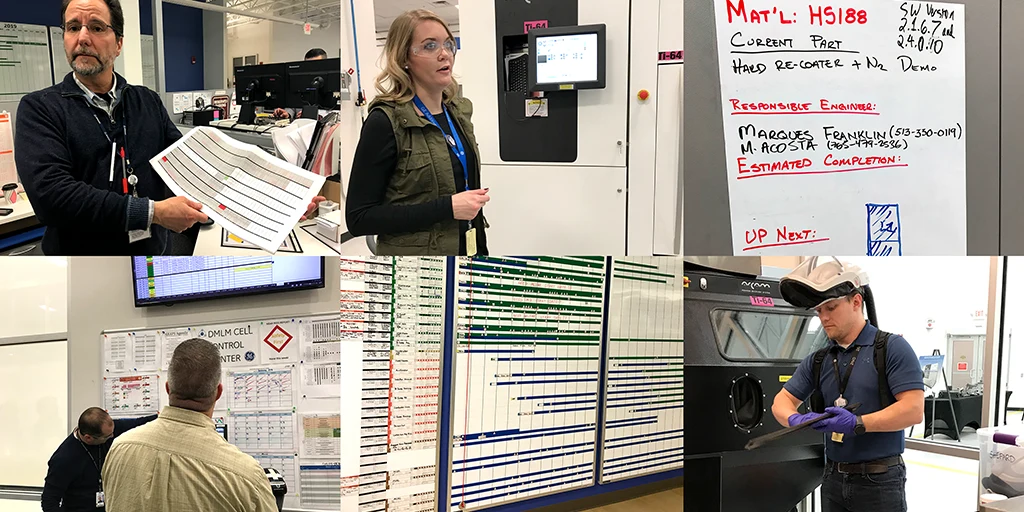
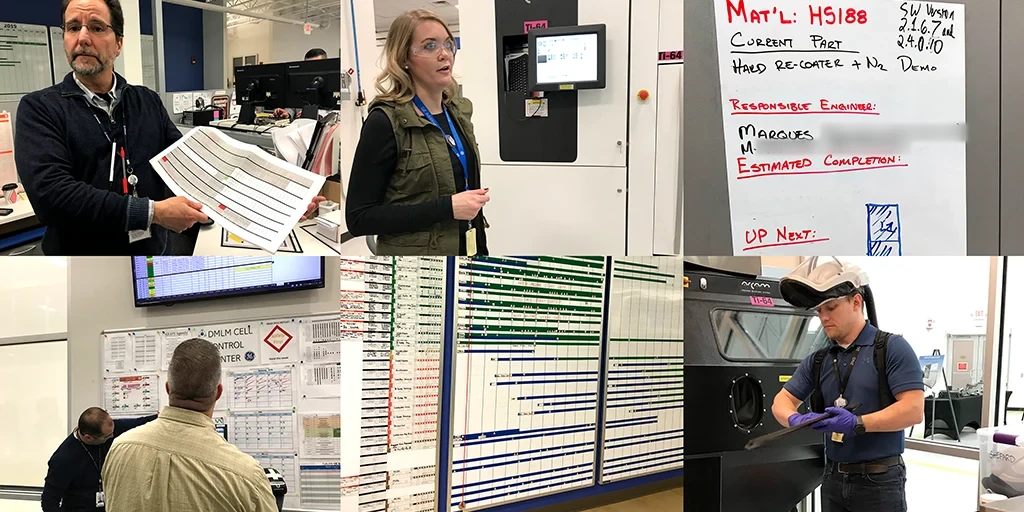
Blur surnames and phone numbers in Additive site-visit photo (#56)
The whiteboard panel of the Additive Manufacturing site-visit image
showed two engineers' surnames and phone numbers, legible at native
size. Blur only those two lines' surname + phone; the rest of the board
stays legible. Same dimensions, opaque RGB, no data changes.

Changed region(s): [[0.7188, 0.2188, 0.9688, 0.3125]]

diff --git a/planning/backlog.md b/planning/backlog.md
@@ -38,6 +38,8 @@ is lower-priority or longer-horizon.
 
 ## In Progress
 
+- [ ] Blur personal info in the Additive Manufacturing site-visit photo, prioritized ahead of the content pass (found 2026-10-08 during the Additive Manufacturing second pass) — branch: fix/blur-site-visit-pii. The whiteboard panel of `public/assets/case-studies/additive-manufacturing/site-visit.webp` showed two engineers' surnames and phone numbers, legible at native size, live on production in a public repo. Blurred only the surname + phone number on each "Responsible Engineer" line (first name "Marques" and initial "M." left legible, per Jim); the rest of the board (Mat'l, Current Part, Estimated Completion, Up Next) is untouched so the finding still reads. Gaussian blur (radius 7) over two rectangles with a 1.5px feathered mask, re-encoded WebP q90 (matches the original's file size, so likely its original quality), still 1024×512, RGB with no alpha, so no `caseStudies.json` change. Not in scope: git history (two older versions, `site-visit.webp` since #43 and `user-research.png` #27–#43, stay reachable; rewriting `main`/`gh-pages` judged not worth it), the companion Keynote deck's slide 6, and jimreed.net, which Jim is checking himself. The image's caption ("engineer names, phone numbers, estimated completion") still describes the now-blurred details; that copy gets reworded in the content pass on fix/refine-case-study-additive-manufacturing-pass-2.
+
 ## Done
 
 - [x] Visual design refinement from a colleague's review (feedback received 2026-10-07), homepage only, done 2026-10-08 (branch `fix/visual-design-refinement-home`). Their comments, close to verbatim, each needing a decision before any change:
